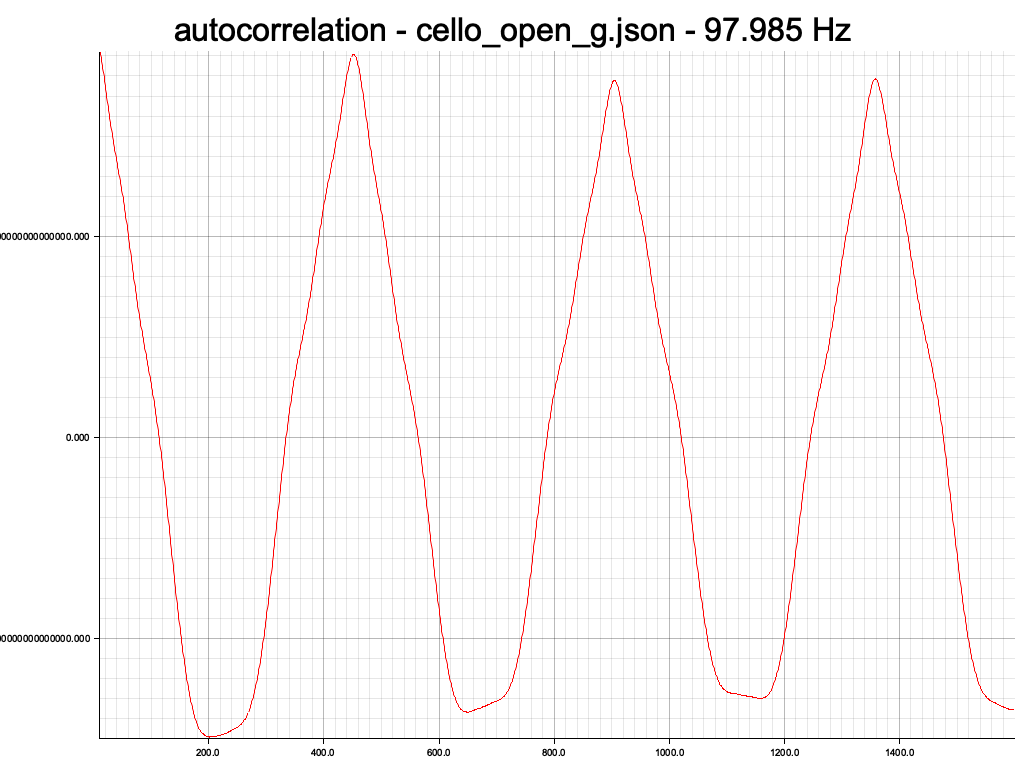
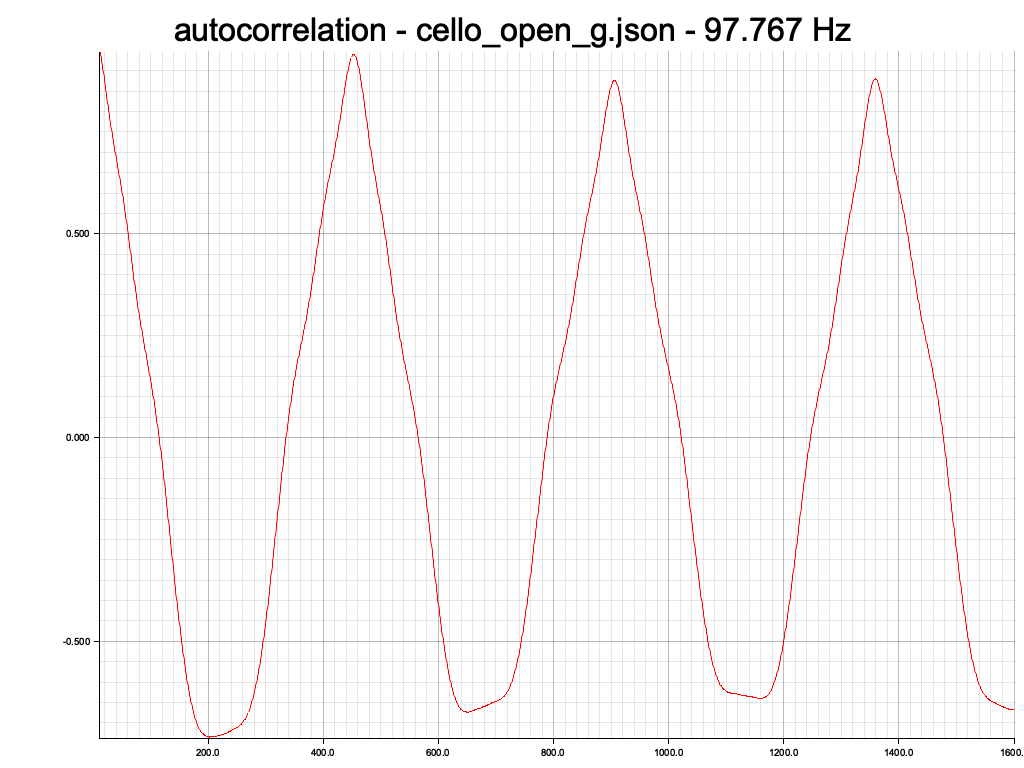
autocorrelation now gets tuner c correct

diff --git a/tuner-rs/src/detectors/autocorrelation.rs b/tuner-rs/src/detectors/autocorrelation.rs
@@ -5,6 +5,7 @@ use crate::{
 };
 use anyhow::Result;
 use fitting::gaussian::fit;
+use float_cmp::ApproxEq;
 use rustfft::FftPlanner;
 
 pub struct AutocorrelationDetector {
@@ -28,14 +29,11 @@ impl FundamentalDetector for AutocorrelationDetector {
         let peak: Vec<(usize, f64)> = self
             .spectrum()
             .into_iter()
-            .skip_while(|(_, intensity)| *intensity > 0.0)
-            .skip_while(|(_, intensity)| *intensity < 0.0)
-            .take_while(|(_, intensity)| *intensity > 0.0)
+            .skip_while(|(_, intensity)| *intensity > 0.001)
+            .skip_while(|(_, intensity)| *intensity <= 0.0)
+            .take_while(|(_, intensity)| *intensity >= 0.0)
             .collect();
-        let (x_vals, y_vals): (Vec<f64>, Vec<f64>) = peak
-            .iter()
-            .map(|i| (i.0 as f64, i.1 / self.fft_space.space()[0].re))
-            .unzip();
+        let (x_vals, y_vals): (Vec<f64>, Vec<f64>) = peak.iter().map(|i| (i.0 as f64, i.1)).unzip();
 
         // mu, sigma, a
         let (mu, _, a) = fit(x_vals.into(), y_vals.into())?;
@@ -58,7 +56,7 @@ impl FundamentalDetector for AutocorrelationDetector {
             .enumerate()
             .skip(lower_limit)
             .take(upper_limit - lower_limit)
-            .map(|(idx, f)| (idx, f.re))
+            .map(|(idx, f)| (idx + 1, f.re / self.fft_space.space()[0].re))
             .collect()
     }
 
@@ -82,18 +80,18 @@ mod tests {
     use crate::utils::test_utils::*;
 
     #[test]
-    fn test_complex() -> anyhow::Result<()> {
+    fn test_autocorrelation() -> anyhow::Result<()> {
         let mut detector = AutocorrelationDetector::new(TEST_FFT_SPACE_SIZE);
-        test_fundamental_freq(&mut detector, "noise.json", 119.997)?;
+        test_fundamental_freq(&mut detector, "noise.json", 119.671)?;
 
         // Fails to detect C5, which whould be at around 523 Hz
-        test_fundamental_freq(&mut detector, "tuner_c5.json", 263.919)?;
-        test_fundamental_freq(&mut detector, "cello_open_a.json", 219.634)?;
-        test_fundamental_freq(&mut detector, "cello_open_d.json", 146.717)?;
-        test_fundamental_freq(&mut detector, "cello_open_g.json", 97.985)?;
+        test_fundamental_freq(&mut detector, "tuner_c5.json", 523.537)?;
+        test_fundamental_freq(&mut detector, "cello_open_a.json", 218.543)?;
+        test_fundamental_freq(&mut detector, "cello_open_d.json", 146.230)?;
+        test_fundamental_freq(&mut detector, "cello_open_g.json", 97.767)?;
 
         // This fails to detect the C note, which should be at around 64Hz
-        test_fundamental_freq(&mut detector, "cello_open_c.json", 129.536)?;
+        test_fundamental_freq(&mut detector, "cello_open_c.json", 129.156)?;
         Ok(())
     }
 }

diff --git a/tuner-rs/src/tuner.rs b/tuner-rs/src/tuner.rs
@@ -126,7 +126,7 @@ mod tests {
 
         tuner_init(AUTOCORRELATION_ALGORITHM, buffer.len() / 2);
         let partial = tuner_detect_pitch(&buffer)?;
-        assert!(partial.freq.approx_eq(219.634, (0.02, 2)));
+        assert!(partial.freq.approx_eq(218.543, (0.02, 2)));
 
         tuner_set_algorithm(COMPLEX_CEPSTRUM_ALGORITHM)?;
         let partial = tuner_detect_pitch(&buffer)?;
